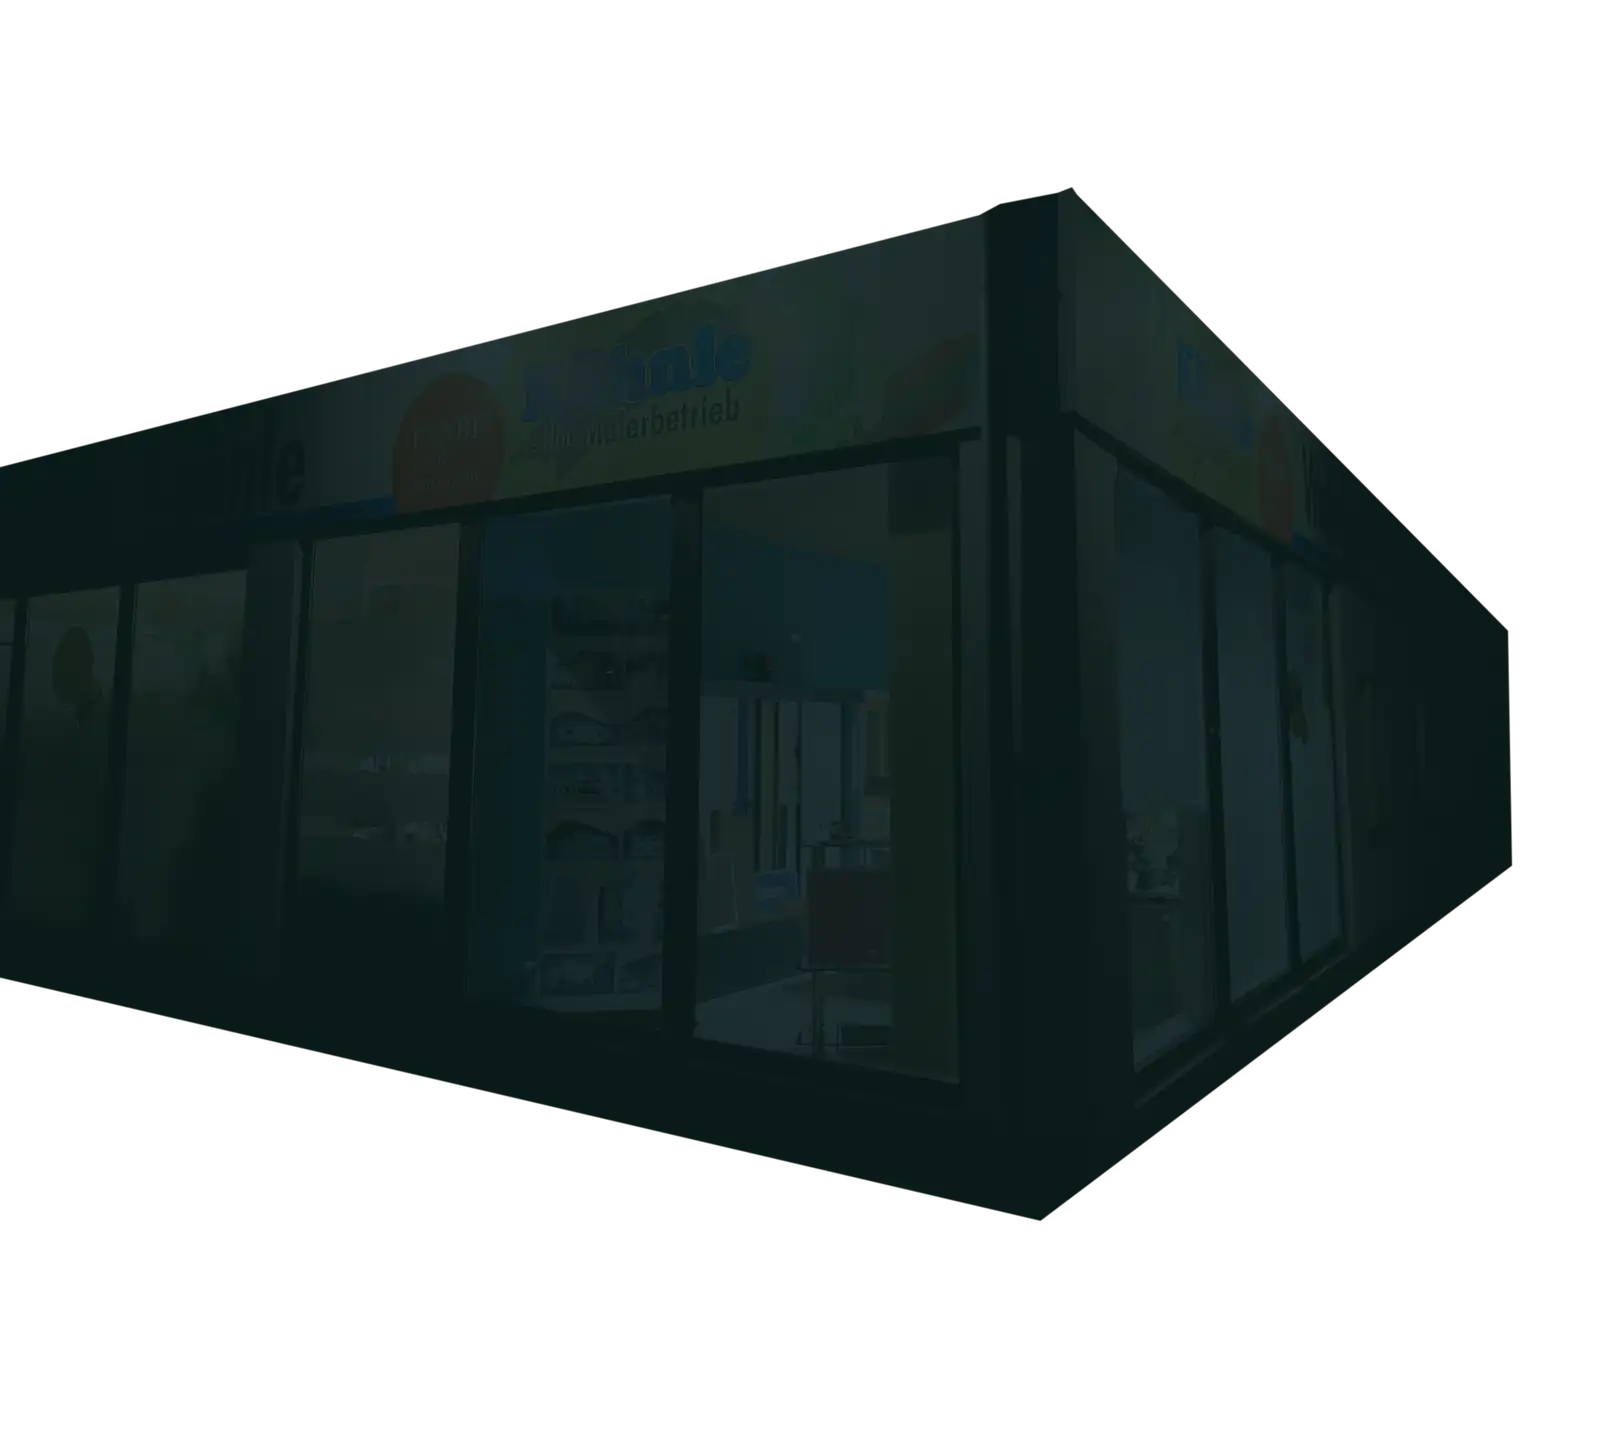
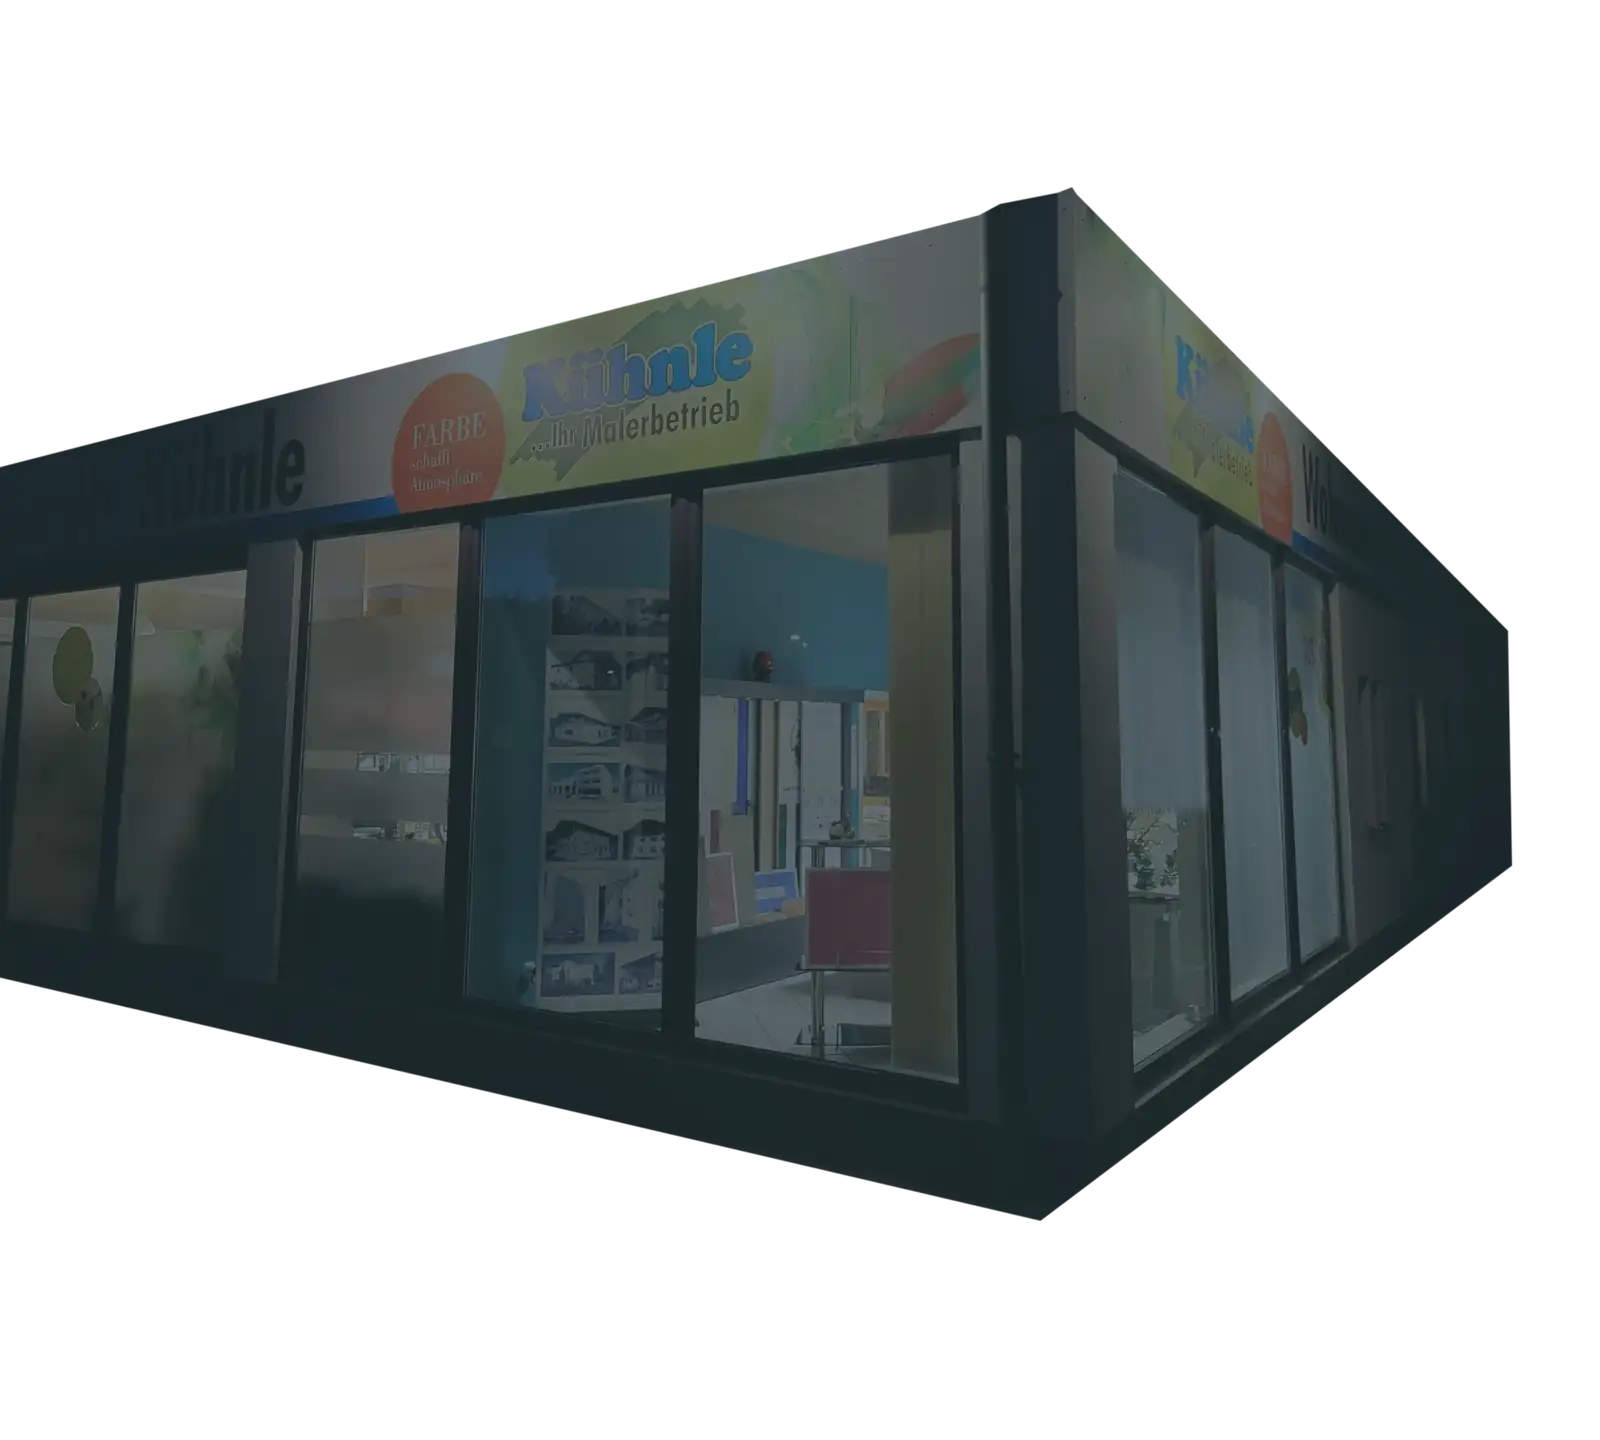
use the wendelstein photo for the night scene

diff --git a/src/index.css b/src/index.css
@@ -270,43 +270,60 @@ section[id] {
 .nacht {
   --p: var(--f, 1);
   --r: calc(1 - var(--p));
-  --nachtluft: clamp(0, calc(var(--p) / 0.7), 1);
-  --licht-aussen: clamp(0, calc((var(--p) - 0.2) / 0.2), 1);
-  --licht-innen: clamp(0, calc((var(--p) - 0.42) / 0.18), 1);
-  --szene-h: max(calc((100svh - var(--header)) * 1.078), 38rem);
+  --dunkelheit: clamp(0, calc((var(--p) - 0.04) / 0.62), 1);
+  --abendrot: min(
+    clamp(0, calc(var(--p) / 0.2), 1),
+    clamp(0, calc((0.62 - var(--p)) / 0.3), 1)
+  );
+  --licht-aussen: clamp(0, calc((var(--p) - 0.26) / 0.2), 1);
+  --licht-innen: clamp(0, calc((var(--p) - 0.46) / 0.18), 1);
+  --buehne-h: max(calc(100svh - var(--header) - 1px), 35rem);
+  /* Der Horizont des Fotos liegt auf 58 % seiner Höhe, das Haus sieht ihn genauso */
+  --foto-b: max(135vw, calc(var(--buehne-h) * 1.46));
+  --foto-h: calc(var(--foto-b) * 0.75);
+  --szene-h: calc(var(--buehne-h) * 1.078);
   --szene-b: calc(var(--szene-h) * 1.1111);
-  --horizont: calc(var(--szene-h) * 0.478);
   --schwenk: min(-3vw, calc(70vw - var(--szene-b) * 0.95));
-  --kette: clamp(9rem, 28svh, 22rem);
-  --kette-b: max(112vw, calc(var(--kette) * 3.81));
 }
 .nacht-buehne {
   position: relative;
-  height: calc(100svh - var(--header) - 1px);
-  min-height: 35rem;
+  height: var(--buehne-h);
   overflow: hidden;
+  /* Oben läuft der Himmel in die Farbe des Kontaktbereichs aus */
   background: linear-gradient(
-    to bottom,
-    hsl(var(--mbfir)) 25%,
-    #1f5a4d calc(100% - var(--horizont))
-  );
+      to bottom,
+      hsl(var(--mbfir)),
+      transparent 22%
+    ),
+    linear-gradient(
+      to bottom,
+      #75b5e9,
+      #8cc4e7 26%,
+      #9ecfe5 40%,
+      #c3d6d1 58%
+    );
 }
-.nacht-abend {
-  position: absolute;
-  inset: 0 0 var(--horizont);
-  background: linear-gradient(
-    to bottom,
-    hsl(var(--mbfir)) 4%,
-    #2f6168 22%,
-    #8f8fb4 42%,
-    #e3ab8e 58%,
-    #efb98a 72%
-  );
-  opacity: calc(1 - var(--nachtluft));
-}
+.nacht-abend,
+.nacht-finster,
 .nacht-sterne {
   position: absolute;
-  inset: 0 0 var(--horizont);
+  inset: 0 0 42%;
+}
+.nacht-abend {
+  background: linear-gradient(
+    to bottom,
+    transparent 20%,
+    #8f8fb4 58%,
+    #e3ab8e 84%,
+    #efb98a
+  );
+  opacity: var(--abendrot);
+}
+.nacht-finster {
+  background: linear-gradient(to bottom, hsl(var(--mbfir)) 16%, #2a6b78);
+  opacity: var(--dunkelheit);
+}
+.nacht-sterne {
   background-image: radial-gradient(1.5px 1.5px at 8% 22%, #fff, transparent),
     radial-gradient(1px 1px at 17% 9%, #fff, transparent),
     radial-gradient(1px 1px at 26% 34%, #fff, transparent),
@@ -318,75 +335,35 @@ section[id] {
     radial-gradient(1px 1px at 84% 42%, #fff, transparent),
     radial-gradient(1px 1px at 90% 54%, #fff, transparent),
     radial-gradient(1.5px 1.5px at 96% 36%, #fff, transparent);
-  opacity: calc(var(--nachtluft) * 0.8);
+  opacity: calc((var(--dunkelheit) - 0.5) * 1.1);
 }
-.nacht-mond {
+/* Das Foto ist breiter als die Bühne: Der Wendelstein rückt rechts neben das Haus */
+.nacht-foto {
   position: absolute;
-  top: 7%;
-  right: max(9vw, 2.5rem);
-  width: clamp(3.25rem, 6vw, 6rem);
-  aspect-ratio: 1;
-  border-radius: 50%;
-  background: #e6dcc6;
-  box-shadow: 0 0 5rem 1.5rem rgb(230 220 198 / 0.22);
-  opacity: var(--nachtluft);
-  transform: translateY(calc(var(--r) * 300%));
+  top: calc((var(--buehne-h) - var(--foto-h)) * 0.58);
+  left: calc(50% - var(--foto-b) * 0.5 + 11vw);
+  width: var(--foto-b);
+  height: var(--foto-h);
+  transform: translateX(calc(var(--p) * var(--schwenk) * 0.14));
 }
-.nacht-kette {
+.nacht-vorne {
+  transform: translateX(calc(var(--p) * var(--schwenk) * 0.5));
+}
+.nacht-ton {
   position: absolute;
-  right: -6%;
-  bottom: calc(var(--horizont) - 1px);
-  width: var(--kette-b);
-  height: var(--kette);
-}
-.nacht-fern {
-  transform: translate(calc(var(--r) * 1.5%), calc(var(--r) * 10%));
-}
-.nacht-mitte {
-  transform: translate(calc(var(--r) * 3%), calc(var(--r) * 18%));
-}
-.nacht-nah {
-  transform: translate(calc(var(--r) * 5%), calc(var(--r) * 26%));
-}
-.nacht-boden {
-  position: absolute;
-  inset: auto 0 0;
-  height: var(--horizont);
-  overflow: hidden;
-  background: linear-gradient(to bottom, #15483f, #0a2420 70%);
-}
-/* Lichtbahn des Monds */
-.nacht-boden::after {
-  content: "";
-  position: absolute;
-  top: 0;
-  right: max(9vw, 2.5rem);
-  width: clamp(3.25rem, 6vw, 6rem);
-  height: 75%;
-  background: linear-gradient(to bottom, #e6dcc6, transparent);
-  filter: blur(14px);
-  opacity: calc(var(--nachtluft) * 0.3);
-}
-.nacht-wasser {
-  position: absolute;
-  top: 0;
-  right: -6%;
-  width: var(--kette-b);
-  height: var(--kette);
-  filter: blur(1.5px);
-  opacity: 0.55;
-  transform: scaleY(-1) translateY(calc(var(--r) * 14%));
-  mask-image: linear-gradient(to top, #000, transparent 90%);
+  inset: 0;
+  background: #0f3140;
+  opacity: calc(var(--dunkelheit) * 0.26);
 }
 .nacht-haus {
   position: absolute;
-  bottom: 0;
+  bottom: calc(var(--szene-h) * -0.09);
   left: 0;
   width: var(--szene-b);
   height: var(--szene-h);
   transform-origin: 54% 72%;
   transform: translateX(calc(var(--p) * var(--schwenk)))
-    scale(calc(1 + var(--r) * var(--r) * 0.14));
+    scale(calc(1 + var(--r) * var(--r) * 0.12));
 }
 .nacht-ebene {
   position: absolute;
@@ -395,7 +372,28 @@ section[id] {
   height: 100%;
   max-width: none;
 }
-.nacht-spiegel,
+.nacht-berge {
+  filter: brightness(calc(1 - var(--dunkelheit) * 0.6))
+    saturate(calc(1 - var(--dunkelheit) * 0.2));
+  transform: translate(calc(var(--r) * 1%), calc(var(--r) * 2.5%));
+}
+.nacht-land {
+  filter: brightness(calc(1 - var(--dunkelheit) * 0.72))
+    saturate(calc(1 - var(--dunkelheit) * 0.3));
+  transform: translate(calc(var(--r) * 2%), calc(var(--r) * 5%));
+}
+.nacht-vorn {
+  filter: brightness(calc(1 - var(--dunkelheit) * 0.76))
+    saturate(calc(1 - var(--dunkelheit) * 0.3));
+  transform: translate(calc(var(--r) * 3%), calc(var(--r) * 11%));
+}
+.nacht-gras {
+  filter: brightness(calc(1 - var(--dunkelheit) * 0.76))
+    saturate(calc(1 - var(--dunkelheit) * 0.3));
+}
+.nacht-dunkel {
+  filter: brightness(calc(1.2 - var(--dunkelheit) * 0.7));
+}
 .nacht-fassade {
   opacity: var(--licht-aussen);
 }
@@ -403,8 +401,13 @@ section[id] {
 .nacht-innen {
   opacity: var(--licht-innen);
   transform-origin: 42% 42%;
-  transform: scale(calc(1 - var(--r) * var(--r) * 0.06));
+  transform: scale(calc(1 - var(--r) * var(--r) * 0.05));
 }
+.nacht-schein {
+  opacity: calc(var(--licht-innen) * 0.5);
+  mix-blend-mode: screen;
+}
+
 /* Referenzen: Bilder behalten ihr Format, die Reihen füllen die Breite */
 .galerie {
   display: flex;
@@ -603,9 +606,8 @@ section[id] {
     top: calc(var(--header) + 1px);
   }
   .nacht-haus,
-  .nacht-ebene,
-  .nacht-kette {
-    will-change: transform, opacity;
+  .nacht-ebene {
+    will-change: transform, opacity, filter;
   }
 
   /* Vorher/Nachher: Abschnitt bleibt stehen, die Rolle zieht die Sanierung darüber */

diff --git a/src/components/nachtszene.tsx b/src/components/nachtszene.tsx
@@ -1,28 +1,28 @@
-import { baumreihe, bergeFern, bergeMitte } from "@/lib/berge";
 import { projektBild, projektSrcSet } from "@/lib/bilder";
 import { useScrollFortschritt } from "@/lib/bewegung";
 
 const fortschritt = (box: DOMRect, fensterhoehe: number) =>
   -box.top / (box.height - fensterhoehe);
 
-// Berge dürfen sich strecken, ihr Grat bleibt so immer ganz im Bild. Tannen nicht.
-const ketten = [
-  { klasse: "nacht-fern", pfad: bergeFern, farbe: "#33625f", ansicht: "none" },
-  { klasse: "nacht-mitte", pfad: bergeMitte, farbe: "#1f524b", ansicht: "none" },
-  {
-    klasse: "nacht-nah",
-    pfad: baumreihe,
-    farbe: "#0e2f29",
-    ansicht: "xMaxYMax slice",
-  },
-];
+const Ebene = ({ name, sizes }: { name: string; sizes: string }) => (
+  <img
+    src={projektBild(`nacht-${name}`)}
+    srcSet={projektSrcSet(`nacht-${name}`)}
+    sizes={sizes}
+    alt=""
+    className={`nacht-ebene nacht-${name}`}
+    loading="lazy"
+    decoding="async"
+  />
+);
 
-// Von hinten nach vorne. Fassade und dunkles Haus liegen deckungsgleich,
-// die Fassade hat Löcher in den Scheiben, durch die man in den Laden sieht.
-const ebenen = ["spiegel", "dunkel", "innen", "fassade"];
+const fotoBreite = "max(135vw, 146vh)";
+const hausBreite = "120vh";
 
-// Es dämmert, das Haus steht im Dunkeln. Beim Scrollen wird es Nacht und die
-// Lichter gehen an, erst außen, dann im Laden. Berge und Haus ziehen versetzt.
+// Abendlicht am Wendelstein, das Haus steht noch unbeleuchtet in der Wiese. Beim
+// Scrollen wird es blaue Stunde und die Lichter gehen an, erst außen, dann im Laden.
+// Berge, Wiese und Haus ziehen dabei versetzt. Fassade und dunkles Haus liegen
+// deckungsgleich, die Fassade hat Löcher in den Scheiben für den Blick in den Laden.
 export default function Nachtszene() {
   const bereich = useScrollFortschritt<HTMLDivElement>(fortschritt);
 
@@ -30,52 +30,27 @@ export default function Nachtszene() {
     <div
       ref={bereich}
       role="img"
-      aria-label="Das beleuchtete Schaufenster des Malerbetriebs Kühnle bei Nacht vor den Bergen"
+      aria-label="Das beleuchtete Schaufenster des Malerbetriebs Kühnle bei Nacht vor dem Wendelstein"
       className="nacht"
     >
       <div className="nacht-buehne">
-        <div aria-hidden="true" className="nacht-abend" />
-        <div aria-hidden="true" className="nacht-sterne" />
-        <div aria-hidden="true" className="nacht-mond" />
-        {ketten.map((kette) => (
-          <svg
-            key={kette.klasse}
-            aria-hidden="true"
-            viewBox="0 0 1600 420"
-            preserveAspectRatio={kette.ansicht}
-            className={`nacht-kette ${kette.klasse}`}
-          >
-            <path d={kette.pfad} fill={kette.farbe} />
-          </svg>
-        ))}
-        {/* Nasser Boden: Berge und Mond spiegeln sich, das Haus bringt seine Spiegelung mit */}
-        <div aria-hidden="true" className="nacht-boden">
-          {ketten.map((kette) => (
-            <svg
-              key={kette.klasse}
-              viewBox="0 0 1600 420"
-              preserveAspectRatio={kette.ansicht}
-              className="nacht-wasser"
-            >
-              <path d={kette.pfad} fill={kette.farbe} />
-            </svg>
-          ))}
+        <div className="nacht-abend" />
+        <div className="nacht-finster" />
+        <div className="nacht-sterne" />
+        <div className="nacht-foto">
+          <Ebene name="berge" sizes={fotoBreite} />
+          <Ebene name="land" sizes={fotoBreite} />
         </div>
+        <div className="nacht-ton" />
         <div className="nacht-haus">
-          {ebenen.map((ebene) => (
-            <img
-              key={ebene}
-              src={projektBild(`nacht-${ebene}`)}
-              srcSet={projektSrcSet(`nacht-${ebene}`)}
-              sizes="120vh"
-              alt=""
-              width={2400}
-              height={2160}
-              className={`nacht-ebene nacht-${ebene}`}
-              loading="lazy"
-              decoding="async"
-            />
-          ))}
+          <Ebene name="dunkel" sizes={hausBreite} />
+          <Ebene name="innen" sizes={hausBreite} />
+          <Ebene name="fassade" sizes={hausBreite} />
+          <Ebene name="gras" sizes={hausBreite} />
+          <Ebene name="schein" sizes={hausBreite} />
+        </div>
+        <div className="nacht-foto nacht-vorne">
+          <Ebene name="vorn" sizes={fotoBreite} />
         </div>
       </div>
     </div>
